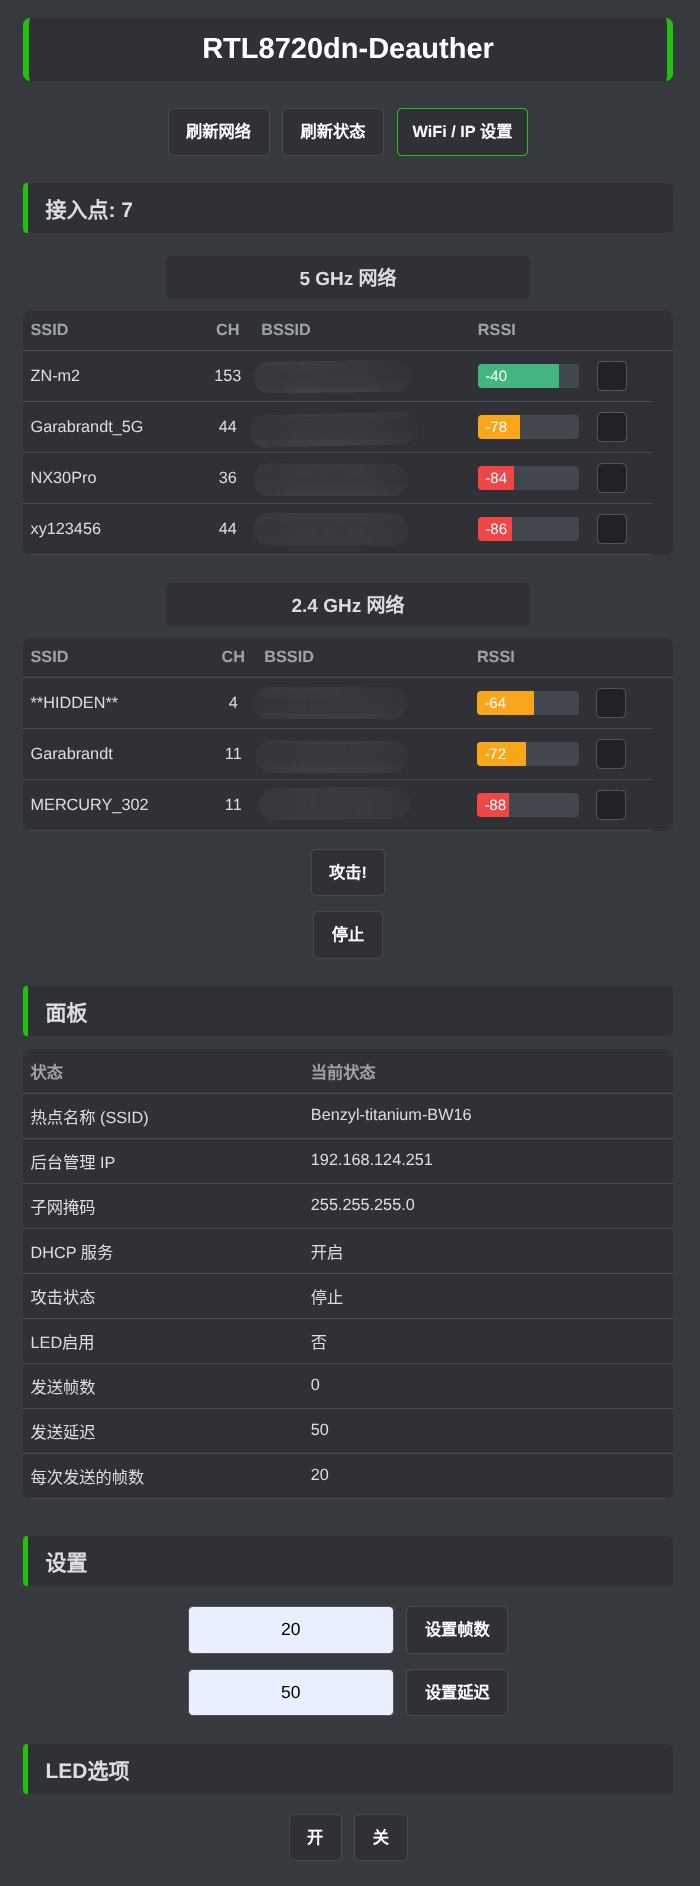
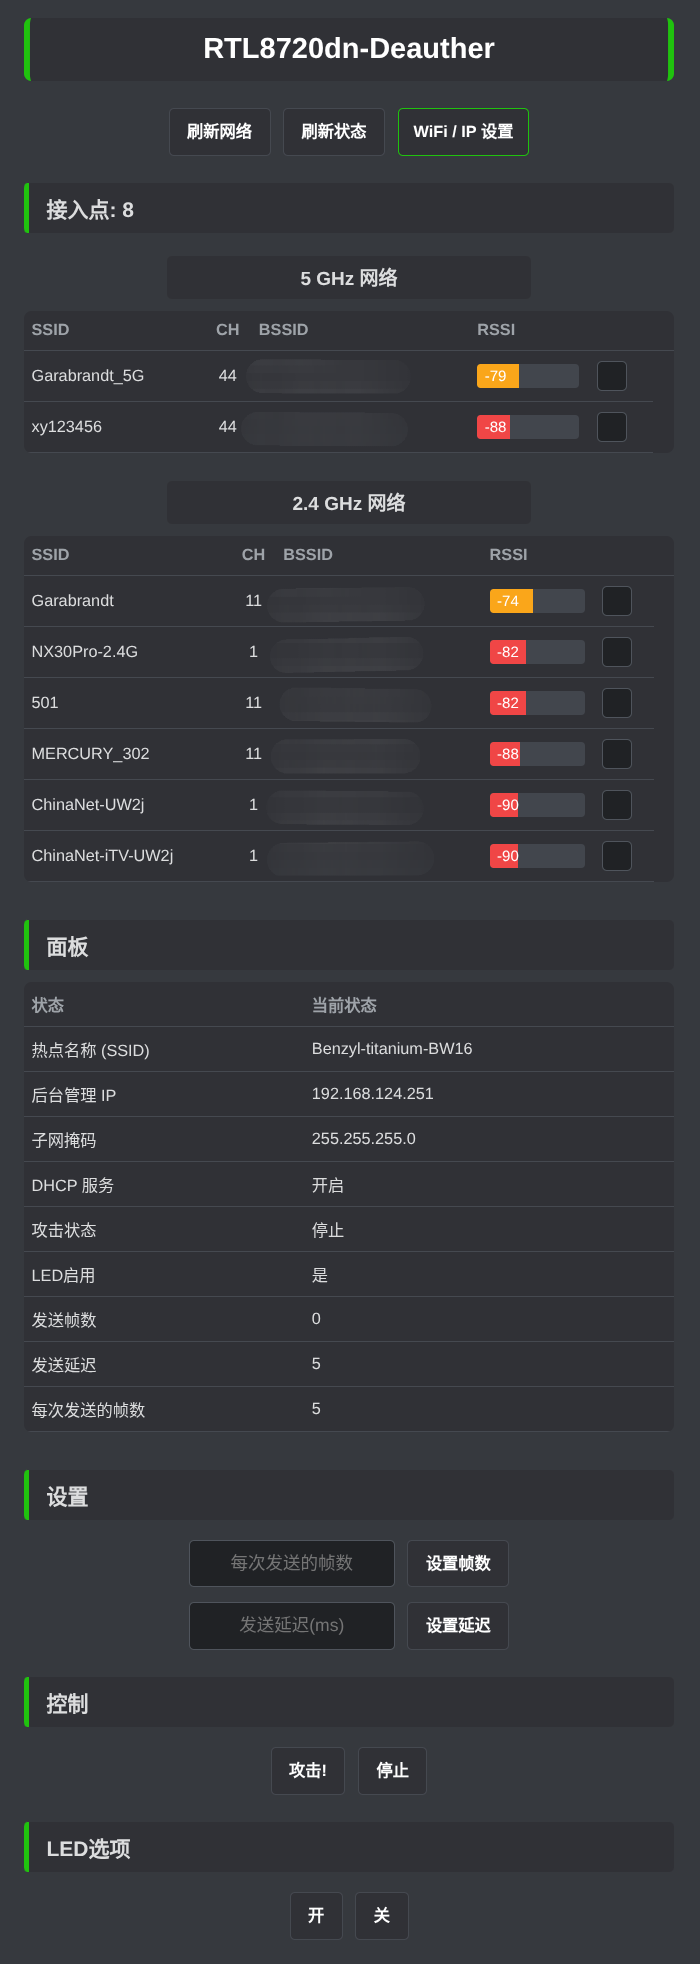
更新主页面

diff --git a/README.md b/README.md
@@ -78,8 +78,6 @@ BSSID码掉了。
 下划，直接点击`攻击!`，这里默认帧数是5，延迟也是5，也可以自定义帧数和延迟，找到`每次发送的帧数`，这里决定你一次批量发多少“deauth”帧。（你可以根据后台里的对照表选择其他的，数值越大，一次性干扰越猛烈，但也更容易被AP检测出来）。  
 `发送延迟(ms)`表示攻击间隔（太频繁也容易被检测）。
 
-![设置](imgs/setup.png)
-
 此时，你板子的LED应该会蓝灯闪烁，代表已经开始攻击。  
 如果你用Edge浏览器，可能会跳转到`192.168.1.1/attack`的空页面，刷新页面重新提交即可。
 
